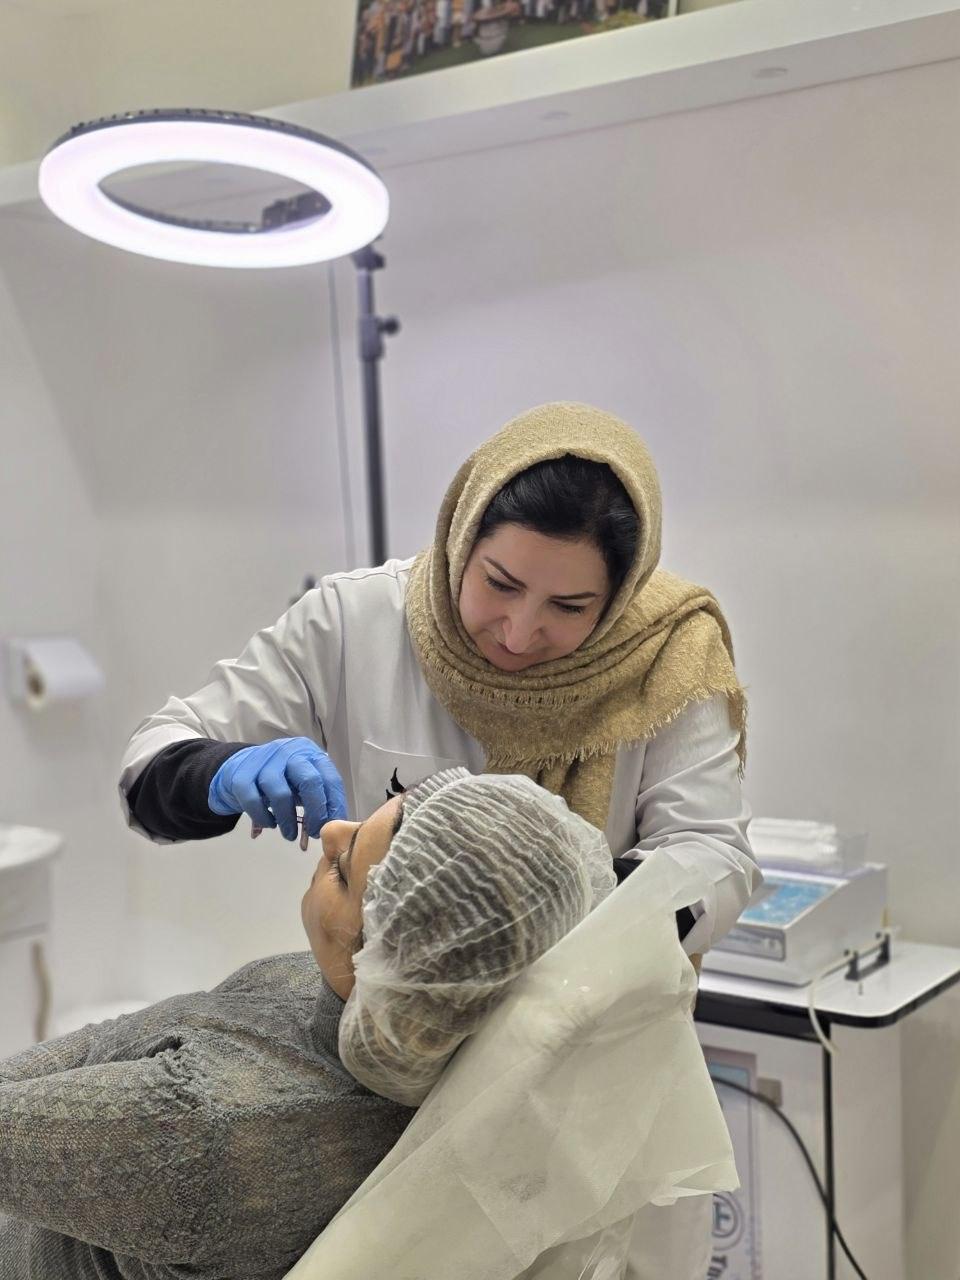
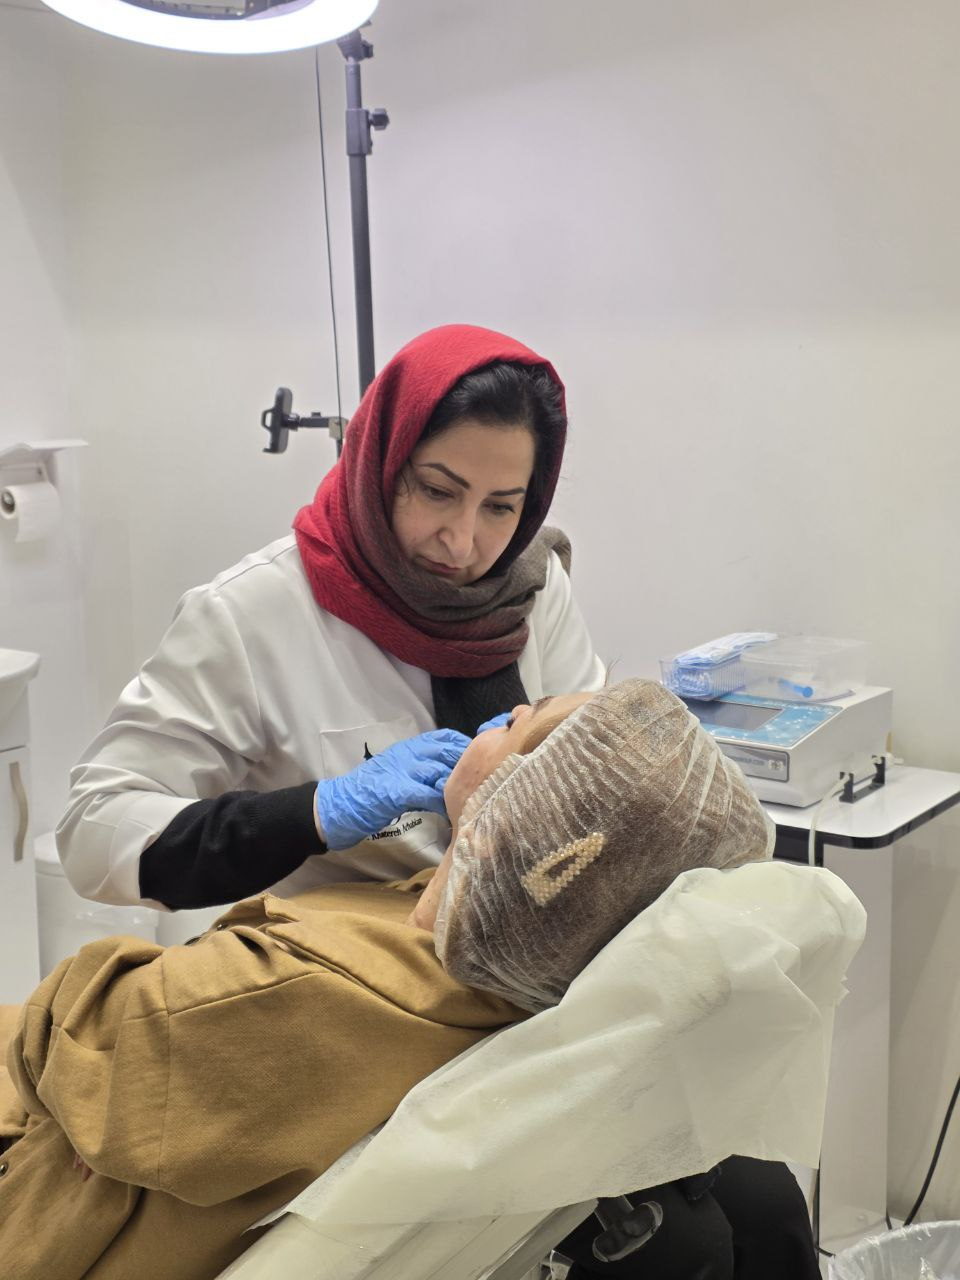
change image

diff --git a/index.html b/index.html
@@ -91,12 +91,12 @@
                                     </div>
 
                                     <div class="carousel-item">
-                                        <img src="images/slider/young-asian-female-dentist-white-coat-posing-clinic-equipment.png" class="img-fluid" alt="">
+                                        <img src="images/slider/photo_5897517249269009531_y.jpg" class="img-fluid" alt="">
                                     </div>
 
-                                    <div class="carousel-item">
+                                    <!-- <div class="carousel-item">
                                         <img src="images/slider/doctor-s-hand-holding-stethoscope-closeup.png" class="img-fluid" alt="">
-                                    </div>
+                                    </div> -->
                                 </div>
                             </div>
 
